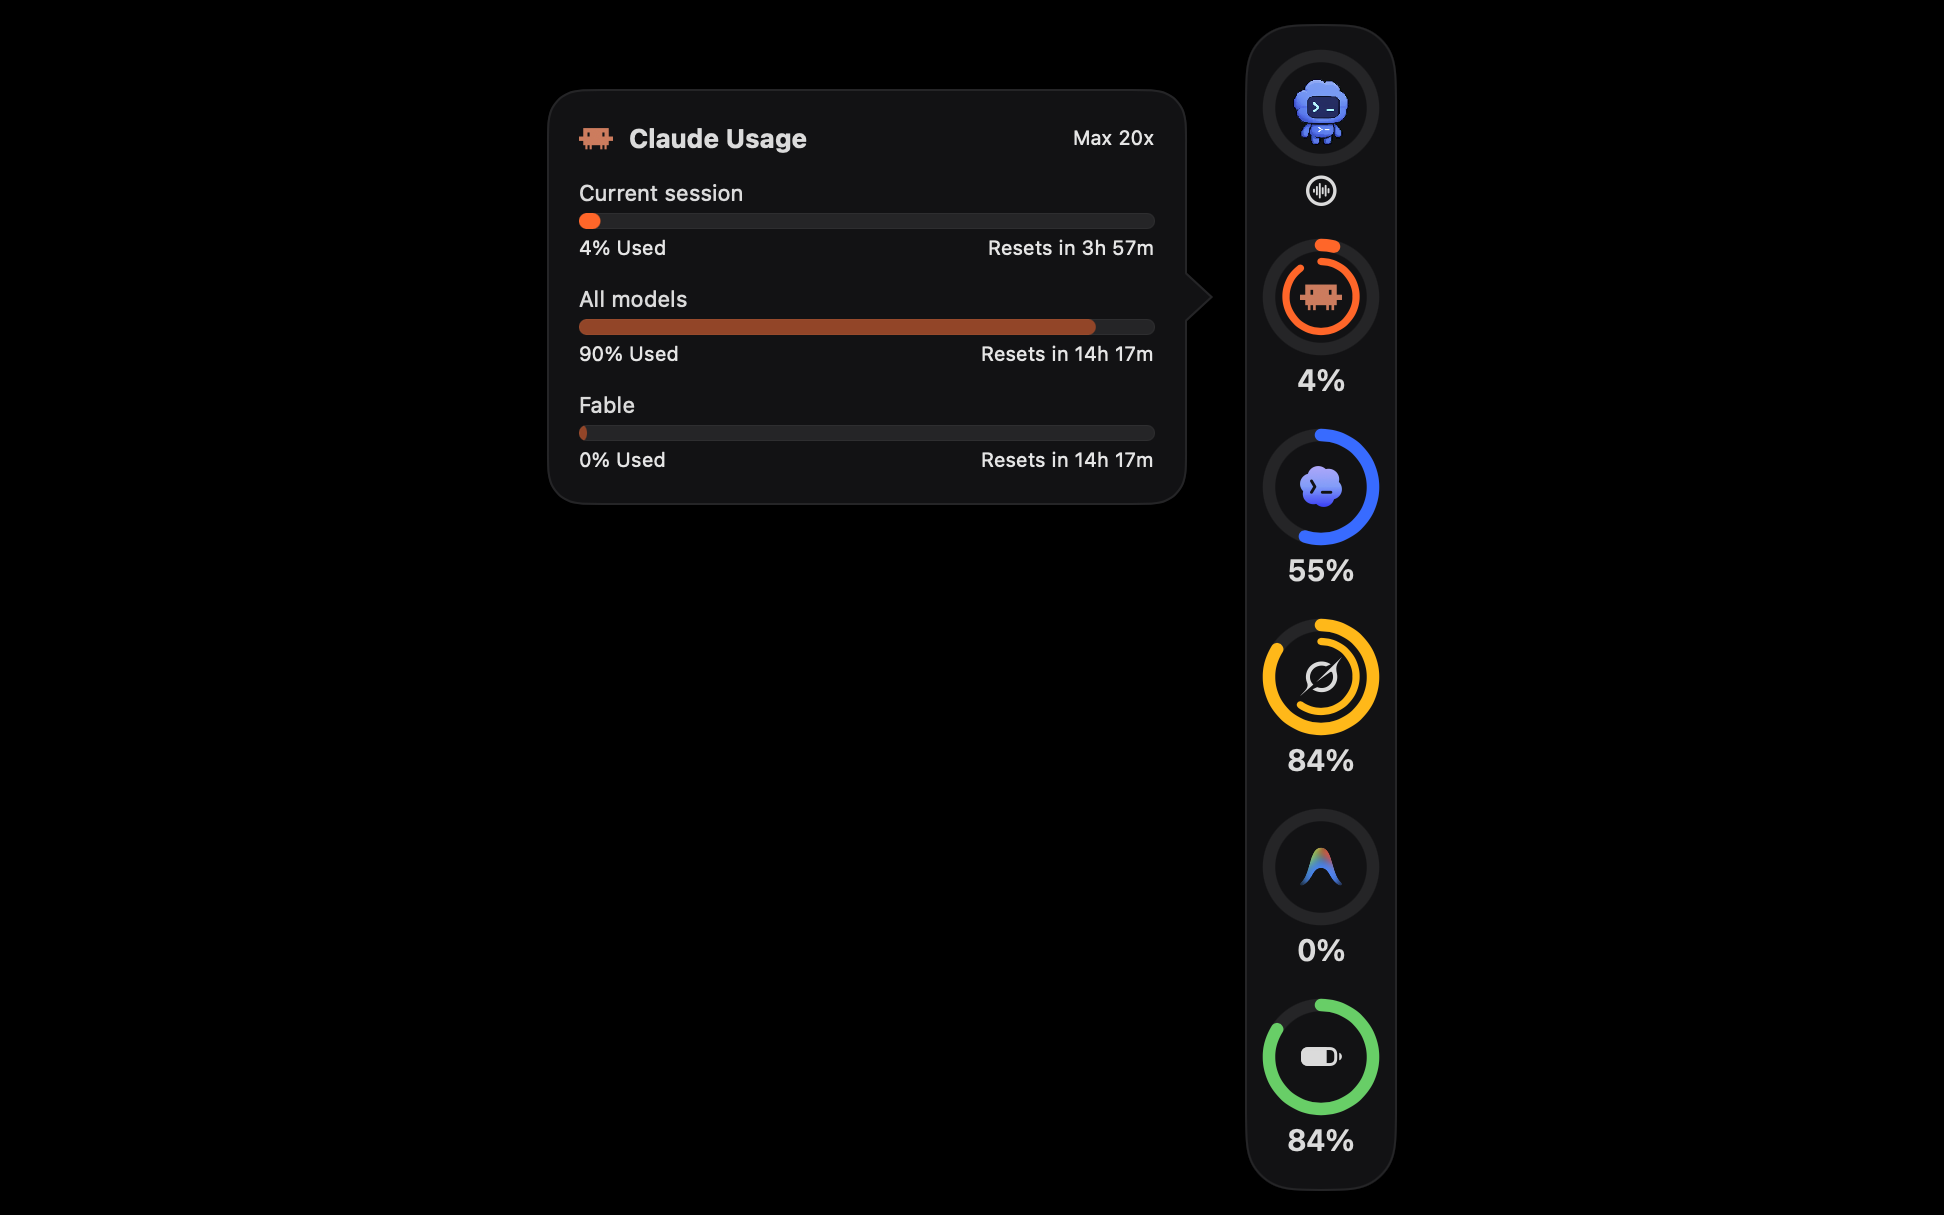
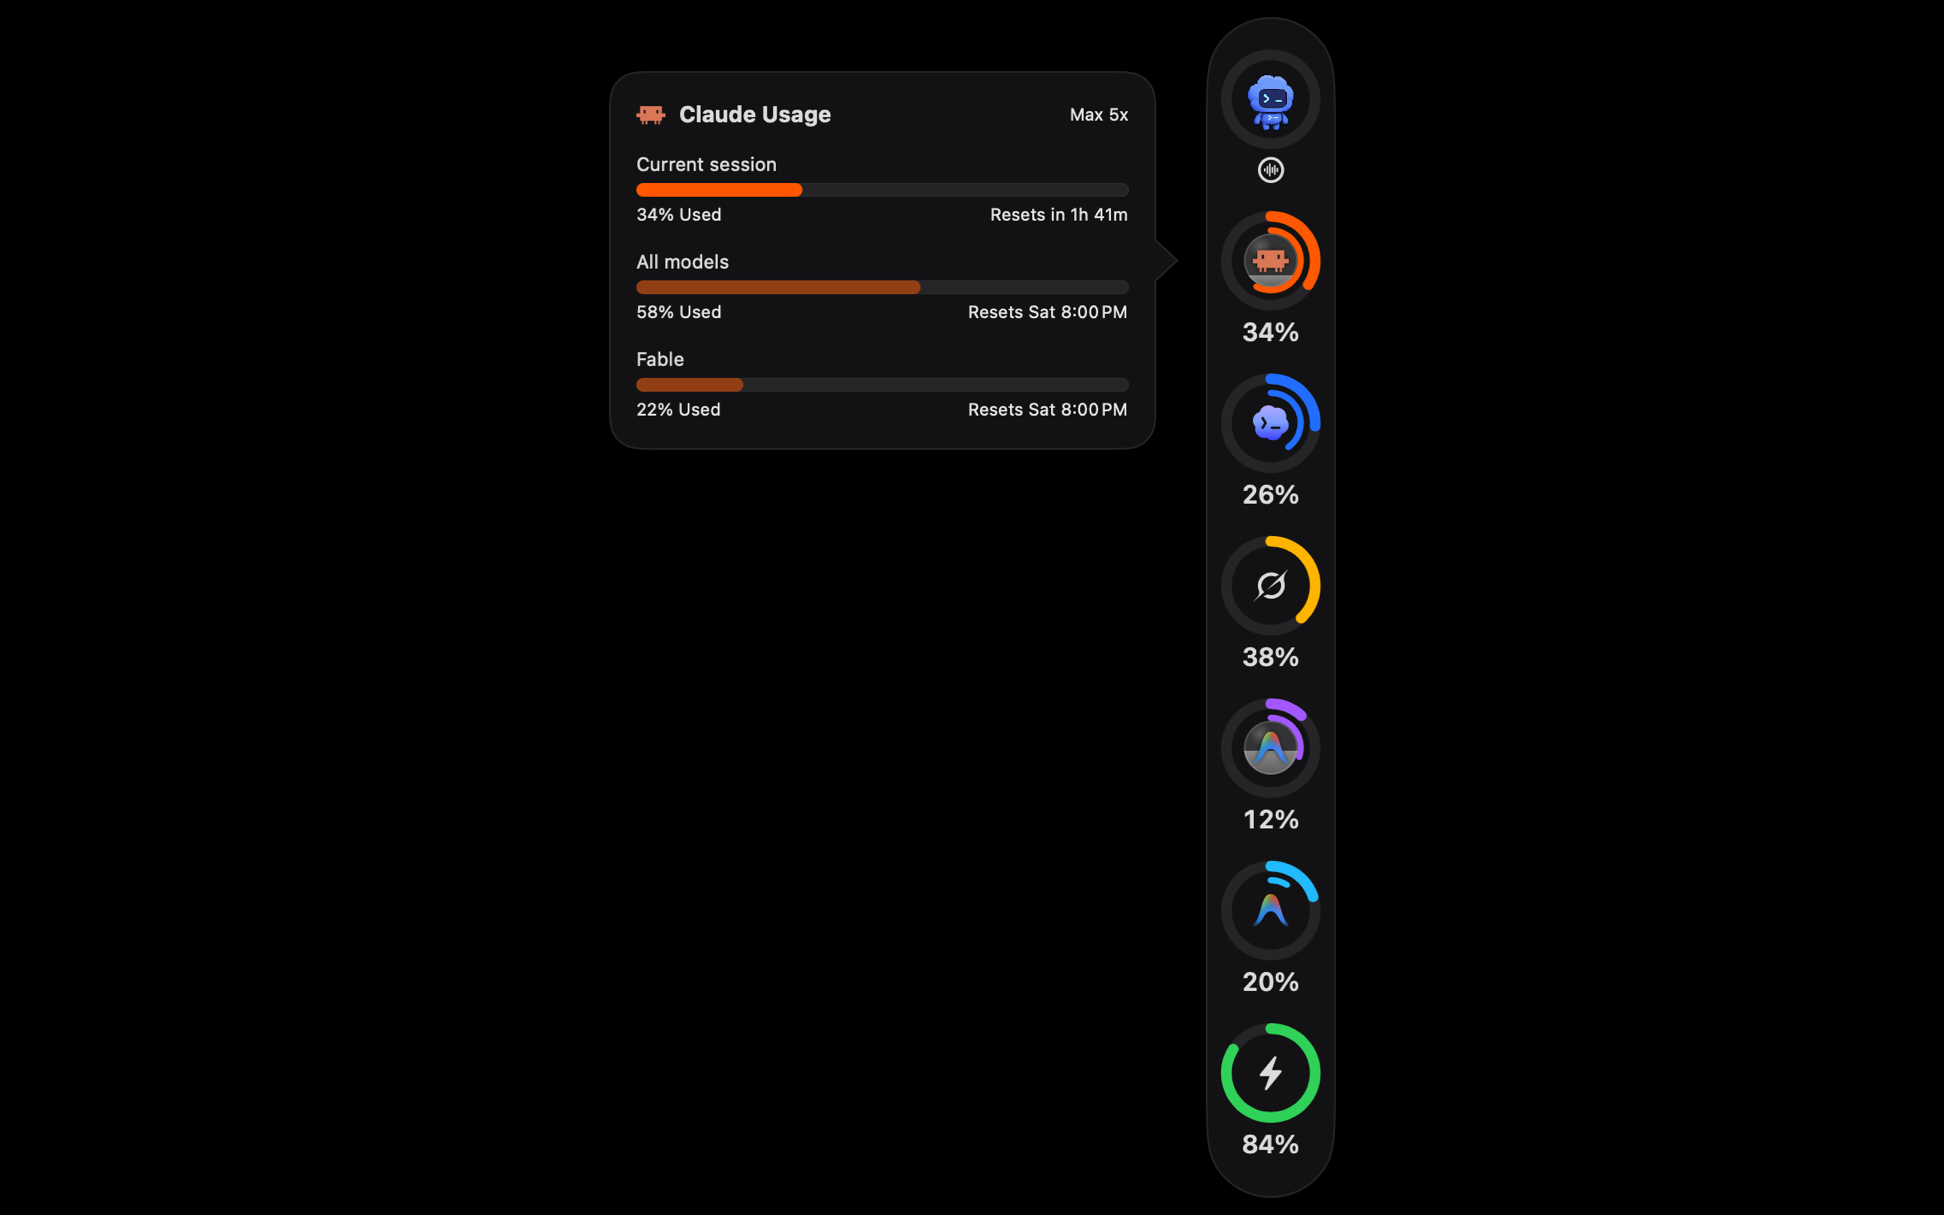
Site for 0.4.0's rings: one ring per pool, the gray disc, new pictures and words
Grok has one arc, Antigravity a violet and a sky blue ring, and the disc looks as it does in the app. The usage card,
break screen and social image are retaken with sample numbers, the break in violet, and the page now shows the whole
break screen rather than cropping its sides. On a short window the open rail stays on screen.

diff --git a/index.html b/index.html
@@ -31,11 +31,11 @@
   --glow: #6e52cf; --bar: #a993ff; --on-bar: #150d33;
   /* from the app's source (Models.swift, Appearance.swift, Battery.swift, Breaks.swift) */
   --p-surface: #121214; --p-track: #252527; --p-label: rgba(255, 255, 255, 0.85);   /* SwiftUI .primary in dark mode is labelColor, white at 85% */
-  --p-claude: #ff5700; --p-codex: #216dff; --p-grok: #ffb400; --p-agy: #00c53f;
+  --p-claude: #ff5700; --p-codex: #216dff; --p-grok: #ffb400; --p-agy: #a358ff; --p-agy2: #22baff;
   --p-green: #30d158; --p-yellow: #ffd60a; --p-break-bar: #a993ff;
 }
 @supports (color: color(display-p3 1 1 1)) {
-  :root { --p-claude: color(display-p3 1 0.40 0.16); --p-codex: color(display-p3 0.22 0.42 1); --p-grok: color(display-p3 1 0.72 0.10); --p-agy: color(display-p3 0 0.76 0.32); }
+  :root { --p-claude: color(display-p3 1 0.40 0.16); --p-codex: color(display-p3 0.22 0.42 1); --p-grok: color(display-p3 1 0.72 0.10); --p-agy: color(display-p3 0.60 0.36 1); --p-agy2: color(display-p3 0.35 0.72 1); }
 }
 [data-theme="halloween"] { --night: #0d0a14; --night-2: #1d1330; --glow: #e8822a; --bar: #ffb050; --on-bar: #2a1203; }
 
@@ -84,7 +84,7 @@ h1 em { font-style: normal; color: var(--bar); }
 /* ---------- Pulse's rail, drawn from the app's own values ---------- */
 .p { font-family: -apple-system, BlinkMacSystemFont, "SF Pro Text", system-ui, sans-serif; color: var(--p-label); }
 /* At rest the rail is small: 28 pt rings without numbers. While the pointer is over it (.open) they grow to 52 pt with
-   their percentages. Pushed into its edge (.tucked) only a 7 pt sliver stays on screen, with a tick per account. */
+   their percentages. Pushed into its edge (.tucked) only a 7 pt sliver stays on screen, with a tick per ring. */
 .rail { position: fixed; z-index: 12; right: 12px; top: 50%; transform: translateY(-50%); touch-action: none; cursor: grab;
   display: flex; flex-direction: column; align-items: center; gap: 10px; padding: 10px 8px; border-radius: 18px;
   background: var(--p-surface); box-shadow: inset 0 0 0 1px var(--p-track), 0 10px 30px rgba(0,0,0,.45);
@@ -92,6 +92,7 @@ h1 em { font-style: normal; color: var(--bar); }
 .rail.open { gap: 18px; padding: 16px 12px; border-radius: 26px; }
 .rail .ring, .rail .pet { zoom: .5385; transition: zoom .28s; }   /* 28 / 52 */
 .rail.open .ring, .rail.open .pet { zoom: 1; }
+@media (max-height: 800px) and (min-width: 761px) { .rail.open { gap: 6px; padding: 10px 12px; } .rail.open .ring, .rail.open .pet { zoom: .86; } }
 .rail:not(.open) .pct, .rail:not(.open) .wave { display: none; }
 .rail:not(.open) .pet:not(.waving) .sprite { animation: none; }   /* as in the app, the small pet holds still */
 .rail.tucked { translate: 49px 0; }   /* 12 pt margin + 44 pt rail - the 7 pt sliver */
@@ -113,8 +114,10 @@ h1 em { font-style: normal; color: var(--bar); }
 .ring .track { fill: none; stroke: var(--p-track); stroke-width: 6.24; }
 .ring .arc { fill: none; stroke-width: 6.24; stroke-linecap: round; transition: stroke-dasharray 1.4s cubic-bezier(.16,1,.3,1); }
 .ring .arc.inner { stroke-width: 3.64; }
-.ring .cap { position: absolute; left: 10.14px; top: 10.14px; width: 31.72px; height: 31.72px; border-radius: 50%; overflow: hidden; }
-.ring .cap i { position: absolute; left: 0; right: 0; bottom: 0; background: var(--p-track); transition: height 1.4s cubic-bezier(.16,1,.3,1); }
+.ring .cap { position: absolute; left: 10.14px; top: 10.14px; width: 31.72px; height: 31.72px; border-radius: 50%; overflow: hidden; background: rgba(255,255,255,.14); }
+.ring .cap::after { content: ""; position: absolute; inset: 0; border-radius: 50%; background: radial-gradient(circle 6.66px at 31% 25%, rgba(255,255,255,.22), transparent); box-shadow: inset 0 0 0 .95px rgba(255,255,255,.16); }
+.ring .cap i { position: absolute; left: 0; right: 0; bottom: 0; background: linear-gradient(rgba(255,255,255,.42), rgba(255,255,255,.20)); transition: height 1.4s cubic-bezier(.16,1,.3,1); }
+.ring:has(.cap) .icon { filter: drop-shadow(0 0 1.3px rgba(0,0,0,.7)); }
 .ring .icon { position: absolute; left: 15.6px; top: 15.6px; width: 20.8px; height: 20.8px; object-fit: contain; }
 .ring .bolt { position: absolute; left: 17.2px; top: 16px; width: 17.6px; height: 20px; color: var(--p-label); }
 .ring .glyph { display: none; position: absolute; left: 15.6px; top: 15.6px; width: 20.8px; height: 20.8px; color: var(--p-label); }
@@ -168,6 +171,7 @@ kbd { font: 600 .92em Geist; padding: .05em .4em; border-radius: 6px; background
 .break h2 { margin-bottom: 2.4rem; }
 .screen { position: relative; max-width: 1060px; border-radius: 22px; overflow: hidden; box-shadow: 0 0 0 1px rgba(255,255,255,.08), 0 30px 80px rgba(0,0,0,.6); }
 .screen video, .screen img { width: 100%; aspect-ratio: 16 / 9; object-fit: cover; }
+.screen .still { height: auto; aspect-ratio: 1200 / 716; }   /* the whole break screen, its glow included */
 .screen .film { display: none; }
 [data-film="on"] .screen .film { display: block; }
 [data-film="on"] .screen .still { display: none; }
@@ -246,18 +250,19 @@ footer { padding: 2.4rem calc(130px + 4vw) 3rem 7vw; border-top: 1px solid rgba(
   <div class="feature">
     <div>
       <h2>Every limit, at the edge of your screen.</h2>
-      <p>Each ring's outer arc is the account's leading window, usually the 5-hour session, and the inner arc the next, usually the weekly limit. Click a ring for that account's windows and reset times. Usage refreshes every 2 minutes.</p>
+      <p>Each ring's outer arc is the account's shortest limit, usually the 5-hour session, and the inner arc the next, usually the weekly limit. Click a ring for its limits and reset times. Usage refreshes every 2 minutes.</p>
       <ul>
         <li><strong>98%, 99%, 100%.</strong> The ring gets a red badge and an alert stays in the middle of the screen until you dismiss it.</li>
-        <li><strong>Per-model caps</strong> fill the disc behind the logo as they're used.</li>
+        <li><strong>Per-model caps</strong> fill the gray disc behind the logo as they're used.</li>
+        <li><strong>A ring per pool.</strong> Antigravity's Gemini models and its Claude and GPT models have separate limits, so each gets a ring. A switch in Settings hides the second.</li>
         <li><strong>Show what's left</strong> turns the rings around, so they empty as you use them.</li>
         <li><strong>Small until you need it.</strong> The rings sit at a screen edge, small and without numbers until the pointer is over them; then they grow and show their percentages.</li>
-        <li><strong>Flick it, tuck it.</strong> Drag the rail to any edge or flick it toward one, and it glides there. Push it into its own edge and it tucks away to a thin sliver, with a tick for each account. Click the sliver to bring it back.</li>
+        <li><strong>Flick it, tuck it.</strong> Drag the rail to any edge or flick it toward one, and it glides there. Push it into its own edge and it tucks away to a thin sliver, with a tick for each ring. Click the sliver to bring it back.</li>
       </ul>
     </div>
     <div>
-      <img class="shot shot-logo" src="assets/usage-card.png" width="899" height="1215" loading="lazy" alt="Pulse: the rail of usage rings and the battery, with the Claude card open: current session, all models and a per-model window, each with its reset time">
-      <img class="shot shot-nologo" src="assets/usage-card-nologo.png" width="899" height="1215" loading="lazy" alt="The rail of usage rings with a usage card open: current session, all models and a per-model window, each with its reset time">
+      <img class="shot shot-logo" src="assets/usage-card.png" width="891" height="1421" loading="lazy" alt="Pulse with sample numbers: the rail with the Codex pet, Claude, Codex, Grok, Antigravity's violet and sky blue rings and the battery, and the Claude card open with current session, all models and Fable">
+      <img class="shot shot-nologo" src="assets/usage-card-nologo.png" width="891" height="1421" loading="lazy" alt="The rail of usage rings with sample numbers and a usage card open: current session, all models and one model's limit">
     </div>
   </div>
 </section>
@@ -286,8 +291,8 @@ footer { padding: 2.4rem calc(130px + 4vw) 3rem 7vw; border-top: 1px solid rgba(
     <video class="film" muted loop playsinline preload="none" poster="assets/promo-halloween-poster.jpg" aria-label="Pulse's Halloween promo: the rings, a usage card, the pet and a break with the Halloween film">
       <source data-src="assets/promo-halloween.mp4" type="video/mp4">
     </video>
-    <img class="still shot-logo" src="assets/break-screen.png" width="1200" height="750" loading="lazy" alt="The break screen: Time to take a break, 0:18 left, an idea with Reroll and Surprise me, Back to Work, Pause and Snooze 5 min, with the Codex pet and agents around the edges">
-    <img class="still shot-nologo" src="assets/break-screen-nologo.png" width="1200" height="750" loading="lazy" alt="The break screen: Time to take a break, 0:18 left, an idea with Reroll and Surprise me, Back to Work, Pause and Snooze 5 min">
+    <img class="still shot-logo" src="assets/break-screen.png" width="1200" height="716" loading="lazy" alt="The break screen in violet: Time to take a break, 0:15 left, an idea with Reroll and Surprise me, Back to Work, Pause and Snooze 5 min, with the Codex pet and agents around the edges">
+    <img class="still shot-nologo" src="assets/break-screen-nologo.png" width="1200" height="716" loading="lazy" alt="The break screen in violet: Time to take a break, 0:20 left, an idea with Reroll and Surprise me, Back to Work, Pause and Snooze 5 min">
   </div>
   <div class="under">
     <span class="caption film-caption" hidden>Halloween: the promo plays here this week.</span>
@@ -330,10 +335,11 @@ footer { padding: 2.4rem calc(130px + 4vw) 3rem 7vw; border-top: 1px solid rgba(
     <a class="pet" href="#pet" aria-label="Codex pet"><svg class="arcs" viewBox="0 0 52 52" style="position:absolute;inset:0;overflow:visible" aria-hidden="true"><circle class="pet-ring" cx="26" cy="26" r="26" fill="none" stroke="var(--p-track)" stroke-width="6.24"/></svg><span class="sprite"></span></a>
     <button class="wave" type="button" aria-label="Start live voice (a preview of the pet's states)"><svg viewBox="0 0 24 24" aria-hidden="true"><circle class="wave-disc" cx="12" cy="12" r="10" fill="none" stroke="currentColor" stroke-width="2"/><path class="wave-bars" d="M7 11v2M9.5 8.5v7M12 10v4M14.5 9v6M17 11v2" fill="none" stroke="currentColor" stroke-width="1.6" stroke-linecap="round"/></svg></button>
   </div>
-  <a class="item" href="#rings" data-ring="claude" data-used="42" data-week="61" data-cap="3"></a>
+  <a class="item" href="#rings" data-ring="claude" data-used="42" data-week="61" data-cap="22"></a>
   <a class="item" href="#rings" data-ring="codex" data-used="26" data-week="40"></a>
-  <a class="item" href="#rings" data-ring="grok" data-used="38" data-week="52"></a>
-  <a class="item" href="#rings" data-ring="antigravity" data-used="12" data-week="30"></a>
+  <a class="item" href="#rings" data-ring="grok" data-used="38" data-what="weekly credits"></a>
+  <a class="item" href="#rings" data-ring="antigravity" data-label="Antigravity, Gemini" data-used="12" data-week="30" data-cap="45"></a>
+  <a class="item" href="#rings" data-ring="antigravity" data-label="Antigravity, Claude and GPT" data-pool="1" data-used="20" data-week="9"></a>
   <a class="item" href="#battery" data-battery="100"></a>
 </aside>
 
@@ -390,11 +396,12 @@ footer { padding: 2.4rem calc(130px + 4vw) 3rem 7vw; border-top: 1px solid rgba(
   const rings = [];
   document.querySelectorAll("[data-ring]").forEach(el => {
     const id = el.dataset.ring, used = el.dataset.used === "" ? null : +el.dataset.used, week = el.dataset.week === undefined || el.dataset.week === "" ? null : +el.dataset.week, cap = el.dataset.cap;
-    el.setAttribute("aria-label", used === null ? `${names[id]}: not signed in` : `${names[id]} usage, sample: ${used}% of the session` + (week === null ? "" : `, ${week}% of the week`));
+    const name = el.dataset.label || names[id], stroke = el.dataset.pool ? "var(--p-agy2)" : color[id];
+    el.setAttribute("aria-label", used === null ? `${name}: not signed in` : `${name} usage, sample: ${used}% of the ${el.dataset.what || "session"}` + (week === null ? "" : `, ${week}% of the week`));
     el.innerHTML = `<span class="ring">${cap ? `<span class="cap"><i style="height:0"></i></span>` : ""}<svg class="arcs" viewBox="0 0 52 52" aria-hidden="true">
       <circle class="track" cx="26" cy="26" r="26"/>
-      <circle class="arc" cx="26" cy="26" r="26" style="stroke:${color[id]};stroke-dasharray:0 ${C(26)}"/>
-      <circle class="arc inner" cx="26" cy="26" r="17.68" style="stroke:${color[id]};stroke-dasharray:0 ${C(17.68)}"/></svg>
+      <circle class="arc" cx="26" cy="26" r="26" style="stroke:${stroke};stroke-dasharray:0 ${C(26)}"/>
+      <circle class="arc inner" cx="26" cy="26" r="17.68" style="stroke:${stroke};stroke-dasharray:0 ${C(17.68)}"/></svg>
       <img class="icon" src="${icons[id]}" alt=""><svg class="glyph" viewBox="0 0 24 24" aria-hidden="true">${glyphs[id]}</svg></span><span class="pct" aria-hidden="true">0%</span><i class="tick" style="--c:${color[id]}"></i>`;
     rings.push({ el, used, week, cap: cap ? +cap : null });
   });
